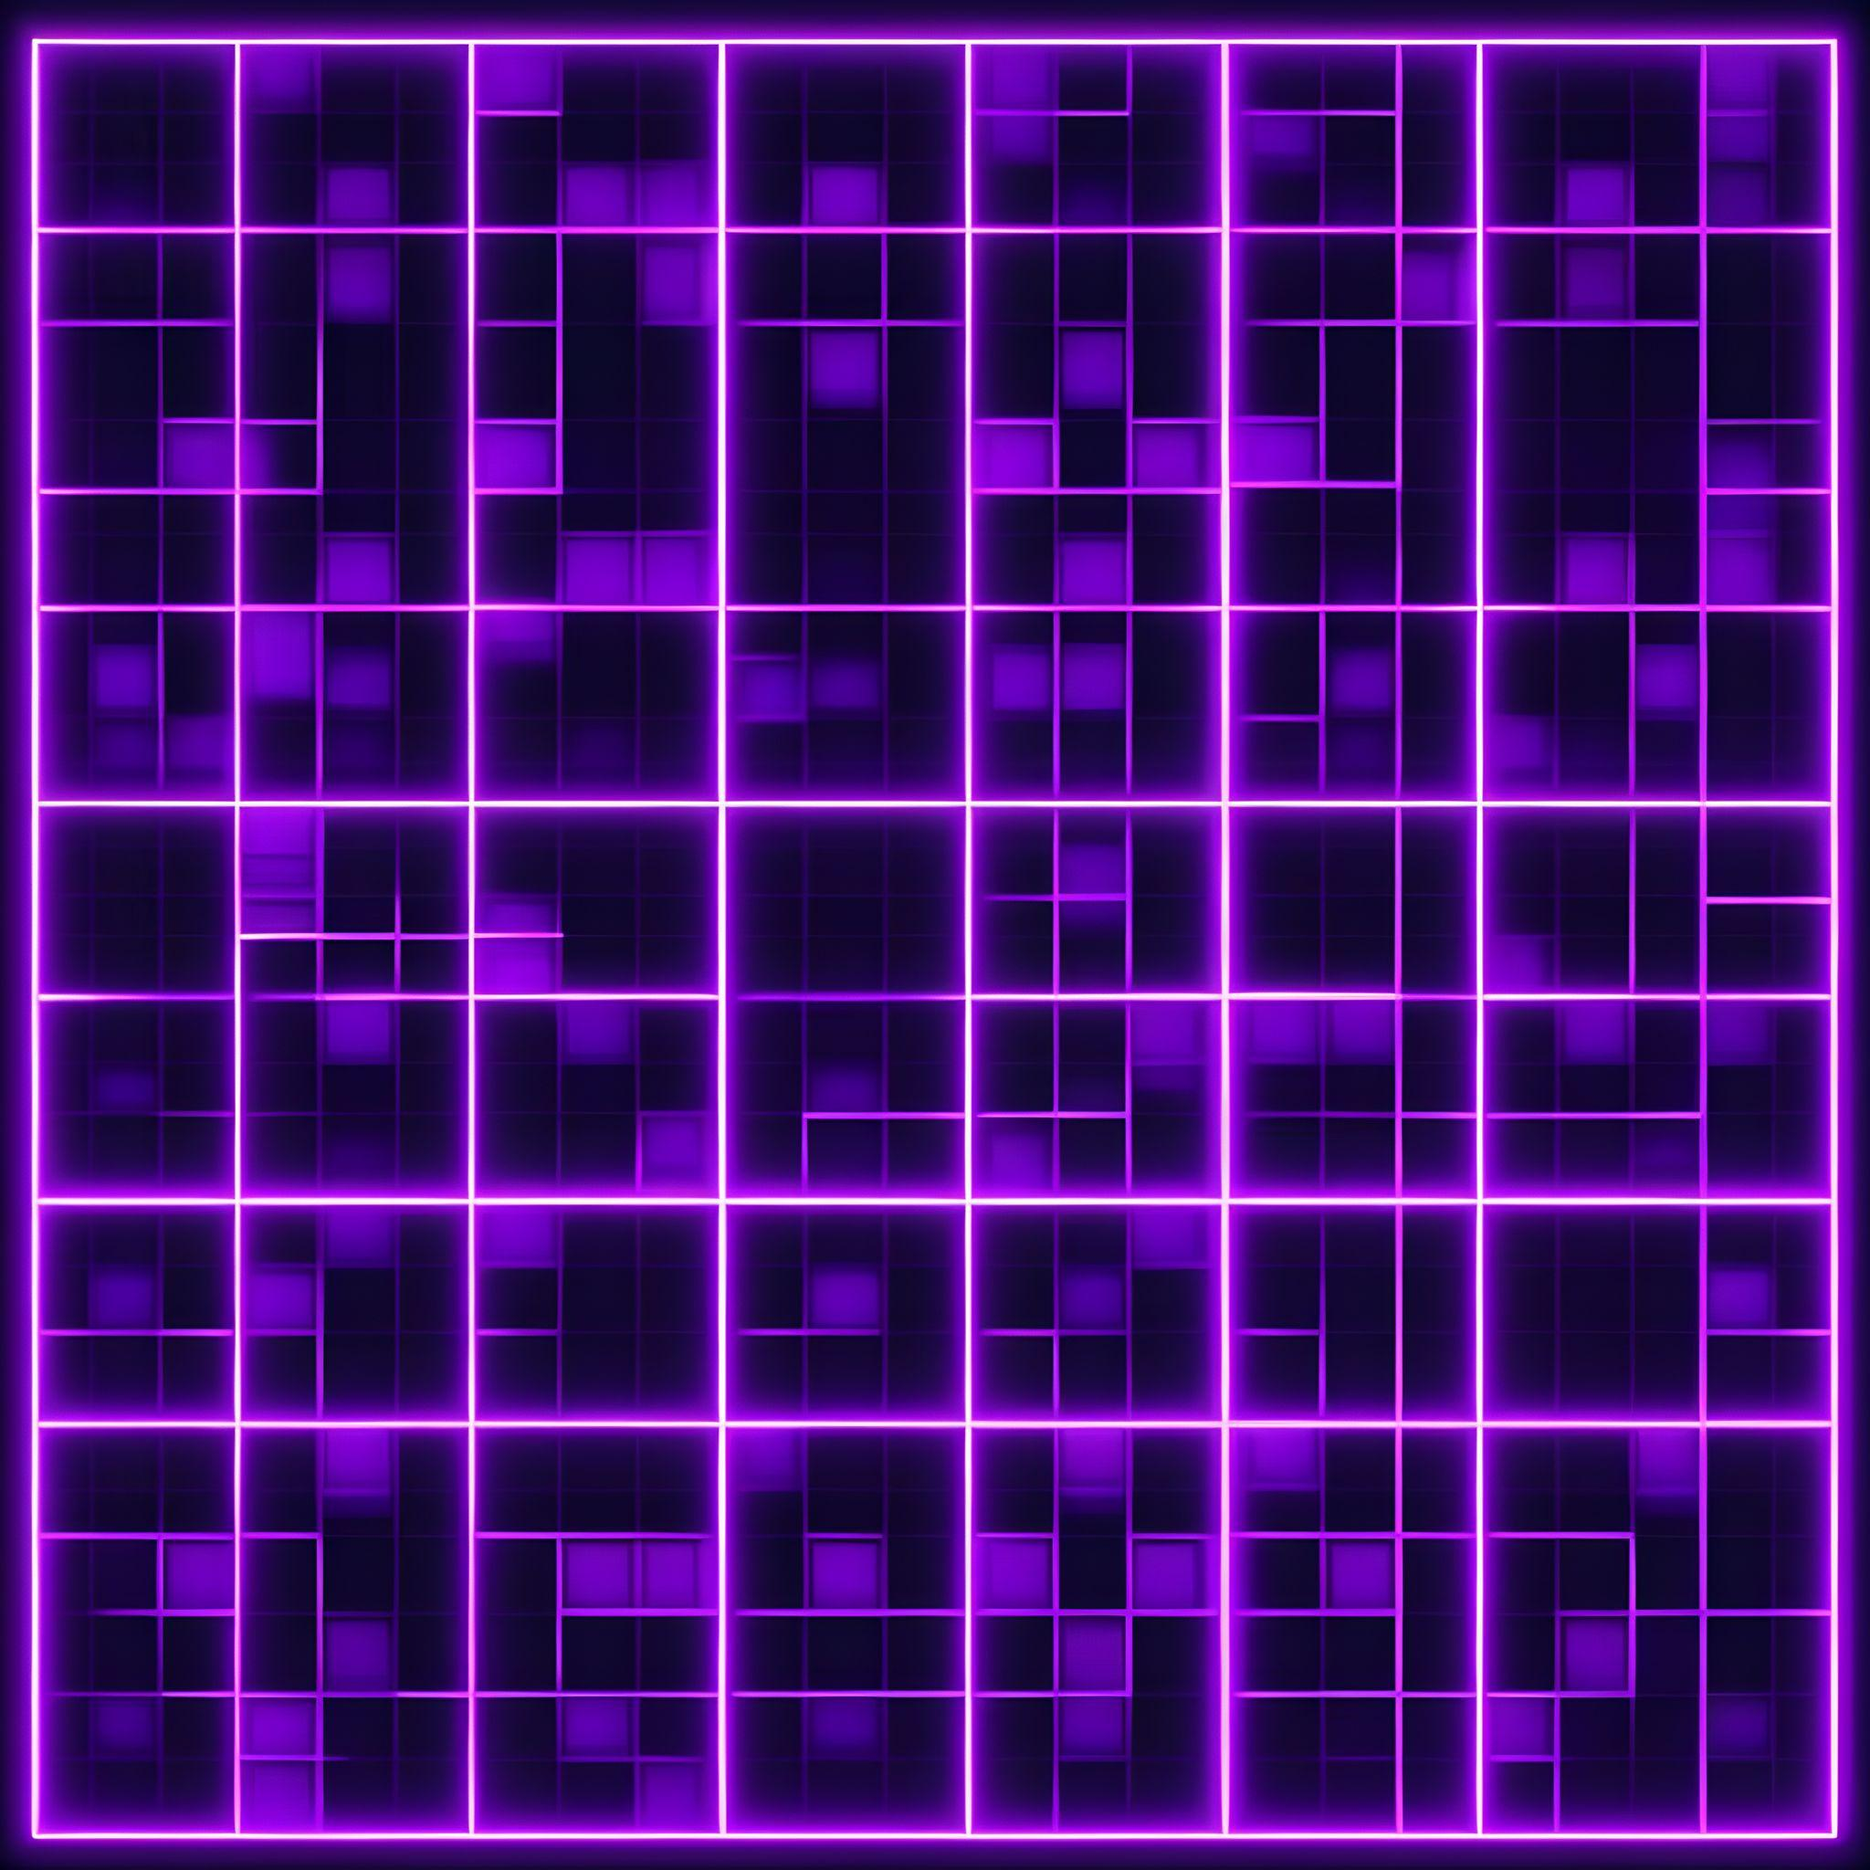
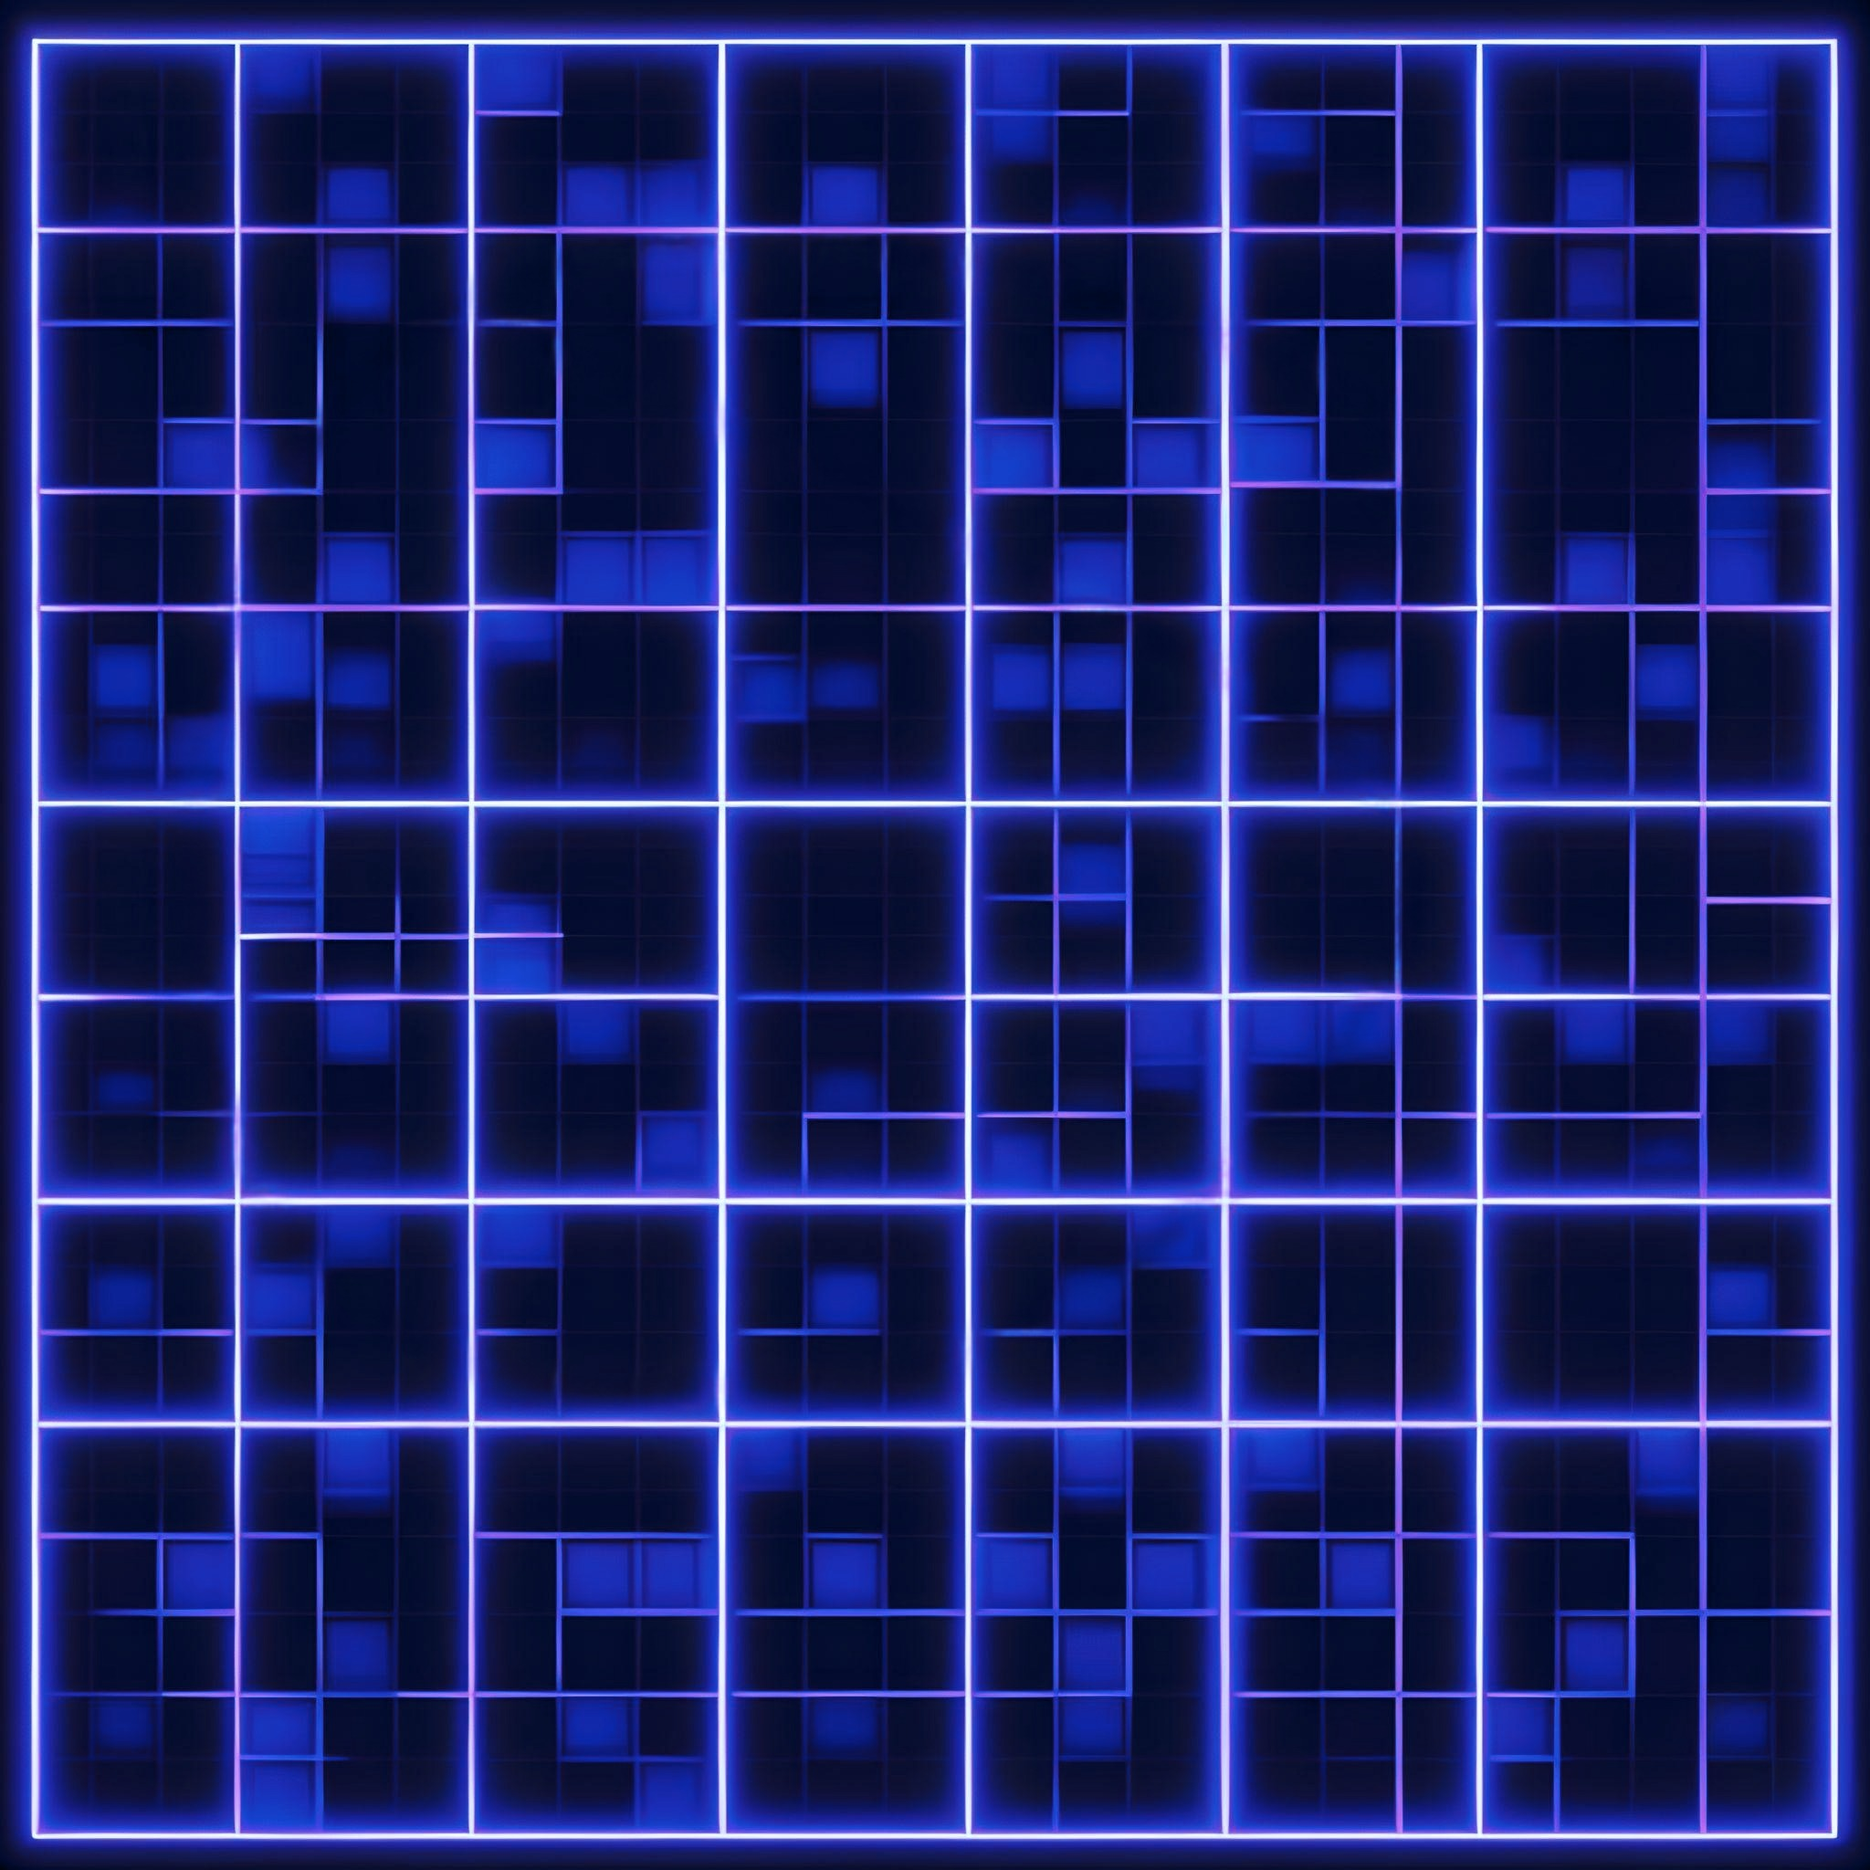
borrado de numero y cambios en ui

diff --git a/sudoku-app/public/js/config.js b/sudoku-app/public/js/config.js
@@ -1,5 +1,6 @@
 const menu = document.getElementById("configMenu");
 let coloresPrevios = {};
+const colorMarco  =document.getElementById('colorMarco');
 const colorTablero = document.getElementById('colorTablero');
 const colorCuadros = document.getElementById('colorCuadros');
 const colorCeldas = document.getElementById('colorCeldas');
@@ -7,6 +8,7 @@ const colorCeldasCompletadas = document.getElementById('colorCeldasCompletadas')
 const colorNumeros = document.getElementById('colorNumeros');
 const colorFyC = document.getElementById('colorFyC');
 const colorResalteNumeros = document.getElementById('colorResalteNumeros');
+
 
 colorCeldasCompletadas
 const atajo = getComputedStyle(document.documentElement);
@@ -19,6 +21,11 @@ function cargarConfiguarcion(){
     }
 
     // Asignar eventos de cambio a cada input de color
+    colorMarco.addEventListener('input', (event) => {
+        actualizarColorCSS('--colorMarco', event.target.value);
+    });
+
+
     colorTablero.addEventListener('input', (event) => {
         actualizarColorCSS('--colorTablero', event.target.value);
     });
@@ -52,6 +59,7 @@ function cargarConfiguarcion(){
 function abrirConfiguracion() {
     // Guardar los colores actuales antes de hacer cambios
     coloresPrevios = {
+        marco: atajo.getPropertyValue('--colorMarco'),
         tablero: atajo.getPropertyValue('--colorTablero'),
         cuadros: atajo.getPropertyValue('--colorCuadro'),
         celdas: atajo.getPropertyValue('--colorCelda'),
@@ -60,6 +68,7 @@ function abrirConfiguracion() {
         resaltado: atajo.getPropertyValue('--colorResalte'),
         numerosResaltados: atajo.getPropertyValue('--colorNumerosResaltados')
     };
+    colorMarco.value   = coloresPrevios.marco;
     colorTablero.value = coloresPrevios.tablero;
     colorCuadros.value = coloresPrevios.cuadros;
     colorCeldas.value = coloresPrevios.celdas;
@@ -77,12 +86,13 @@ function guardarMenuConfig (){
 
 function cancelarMenuConfig() {
 
+    estilos.setProperty('--colorMarco', coloresPrevios.marco);
+    estilos.setProperty('--colorTablero', coloresPrevios.tablero);
     estilos.setProperty('--colorCuadro', coloresPrevios.cuadros);
     estilos.setProperty('--colorCelda', coloresPrevios.celdas);
     estilos.setProperty('--colorNumeros', coloresPrevios.numeros);
     estilos.setProperty('--colorResalte', coloresPrevios.resaltado);
     estilos.setProperty('--colorNumerosResaltados', coloresPrevios.numerosResaltados);
-    estilos.setProperty('--colorTablero', coloresPrevios.tablero);
     estilos.setProperty('--colorCeldaCompleta', coloresPrevios.celdasCompletadas);
 
     menu.classList.add('ocultar');
@@ -90,6 +100,7 @@ function cancelarMenuConfig() {
 
 function guardarColoresEnLocalStorage() {
     const colores = {
+        marco: atajo.getPropertyValue('--colorMarco'),
         tablero: atajo.getPropertyValue('--colorTablero'),
         cuadros: atajo.getPropertyValue('--colorCuadro'),
         celdas: atajo.getPropertyValue('--colorCelda'),
@@ -104,6 +115,7 @@ function guardarColoresEnLocalStorage() {
 function cargarColoresDesdeLocalStorage() {
     const colores = JSON.parse(localStorage.getItem('colores'));
     if (colores) {
+        estilos.setProperty('--colorMarco', colores.marco)
         estilos.setProperty('--colorTablero', colores.tablero);
         estilos.setProperty('--colorCuadro', colores.cuadros);
         estilos.setProperty('--colorCelda', colores.celdas);
@@ -113,6 +125,7 @@ function cargarColoresDesdeLocalStorage() {
         estilos.setProperty('--colorNumerosResaltados', colores.numerosResaltados);
 
         // También actualiza los valores de los inputs de color
+        colorMarco.value   = coloresPrevios.marco;
         colorTablero.value = colores.tablero;
         colorCuadros.value = colores.cuadros;
         colorCeldas.value = colores.celdas;
@@ -124,13 +137,14 @@ function cargarColoresDesdeLocalStorage() {
 
 function reiniciarDeFabrica() {
     // Restablecer los colores a los valores predeterminados
-    estilos.setProperty('--colorTablero', '#1c1c1c');
-    estilos.setProperty('--colorCuadro', '#2e2e2e');
-    estilos.setProperty('--colorCelda', '#3a3a3a'); //
-    estilos.setProperty('--colorCeldaCompleta', '#4b3a5d'); 
-    estilos.setProperty('--colorNumeros', '#e8e8e8'); 
-    estilos.setProperty('--colorResalte', '#5c2a8d'); 
-    estilos.setProperty('--colorNumerosResaltados', '#9b7f9f');
+    estilos.setProperty('--colorMarco', '#171c61')
+    estilos.setProperty('--colorTablero', '#001f33'); // Azul muy oscuro
+    estilos.setProperty('--colorCuadro', '#003366'); // Azul profundo
+    estilos.setProperty('--colorCelda', '#004080'); // Azul oscuro suave
+    estilos.setProperty('--colorCeldaCompleta', '#00264d'); // Azul marino
+    estilos.setProperty('--colorNumeros', '#ffffff'); // Blanco brillante para los números
+    estilos.setProperty('--colorResalte', '#0066cc'); // Azul vibrante con un toque de neón
+    estilos.setProperty('--colorNumerosResaltados', '#80d4ff'); // Azul claro y suave para los números resaltados
     
     guardarColoresEnLocalStorage();
 }

diff --git a/sudoku-app/public/css/ventanaJuego.css b/sudoku-app/public/css/ventanaJuego.css
@@ -1,8 +1,11 @@
 
 #juegoTablero{
-    background-image: url("/Prueba/sudoku-app/assets/banner.png");
+  
     position: absolute;
-    background-color: rgb(60, 0, 128);
+    background-color: var(--colorMarco);
+    border:double #173ebd;
+    border-width: 2px;
+    box-shadow: 1px 1px 10px rgb(86, 104, 206);
     width: fit-content;
     height: fit-content;
     margin: 5px;
@@ -11,17 +14,18 @@
     top: 50%;
     left: 50%;
     transform: translate(-50%, -50%);
-    box-shadow: 0 0 8px rgba(106, 90, 205, 0.5); 
 }
 
 #contenedorInfo{
     display: flex;
     flex-direction: row;
-    background-color: rgba(4, 53, 4, 0);
+    background-color: rgba(255, 255, 255, 0);
     width: auto;
     height: fit-content;
     margin: 5px;
     padding: 5px;
+    color: white;
+    
 }
 .conenedorTiempo{
     border: thick inset #2e1b35;
@@ -29,37 +33,34 @@
     justify-content: center;
     font-size: 25px;
     align-items: center;
-    background-image: url("/Prueba/sudoku-app/assets/banner.png");
     margin: 5px;
     width: 100%;
     height: 4vh;
-    background-color: #3a387e;
-    filter: saturate(15%);
+    background-color: #477ecf62;
     color: white;
+    border: thick double #4e66ec;
+    box-shadow: 1px 1px 15px rgb(102, 121, 207);
 }
 .conenedorVidas{
     display: flex;
     justify-content: space-between;
     align-items: center;
-    background-image: url("/Prueba/sudoku-app/assets/banner.png");
     margin: 5px;
     width: 100%;
     height: 4vh;
-    background-color: #3a387e;
-    filter: saturate(15%);
+    background-color: #477ecf62;
     color: white;
-    border: thick inset #2e1b35;
+    border: thick double #4e66ec;
+    box-shadow: 1px 1px 15px rgb(102, 121, 207);
 }
 
 #bontonPista{
     position: relative;
-    background-image: url("/Prueba/sudoku-app/assets/banner.png");
     margin: 5px;
     top: 5px;
     width:  fit-content;
     height: 4vh;
-    background-color: #3a387e;
-    filter: saturate(15%);
+    background-color: #031553;
     color: white;
 }
 

diff --git a/sudoku-app/public/css/menus.css b/sudoku-app/public/css/menus.css
@@ -1,13 +1,15 @@
 #banner{
-    background-image: url("/Prueba/sudoku-app/assets/banner.png");
     position: absolute;
     display: flex;
     flex-direction: row;
-    background-color: lightblue;
+    background-color: rgb(12, 10, 71);
     width: 100%;
     margin-bottom: 10px;
+    border:outset #cec1d3;
+    border-width: 2px;
+    box-shadow: 0 4px 12px rgb(107, 108, 207);
     justify-content: space-between
-
+    
 
 }
 #menuDespegable{
@@ -22,7 +24,8 @@
     color: white;
     padding: 10px;
     font-size: 16px;
-    border: thick inset #2e1b35;
+    border: thick inset #0a1b3f;
+    box-shadow: 0 4px 12px rgb(107, 108, 207);
     cursor: pointer;
     height: 35px;
     display: flex;
@@ -40,19 +43,20 @@
     min-width: 160px;
     box-shadow: 0 8px 16px 0 rgba(0,0,0,0.2);
     z-index: 1;
+    border: thick inset #121344;
 }
 
 .menuDesplejado button  {
-    background-image: url("/Prueba/sudoku-app/assets/banner.png");
     color: #ffffff;
     padding: 12px 16px;
-    background-color: #3a387e;
+    background-color: #031553;
+    border: 2px inset #121344;
     padding: 12px 16px;
     text-decoration: none;
-    display: block;
-    border: none; 
+    display: block; 
     width: 100%; 
     text-align: left; 
+    
 }
 
 .menuDesplejado button:hover {
@@ -83,7 +87,8 @@
     color: white;
     padding: 10px;
     font-size: 16px;
-    border: thick inset #2e1b35;
+    border: thick inset #0a1b3f;
+    box-shadow: 0 4px 12px rgb(107, 108, 207);
     cursor: pointer;
     height: 35px;
     display: flex;
@@ -94,5 +99,5 @@
 
 .botonInfo:active {
     transform: translateY(2px);
-    border: thick inset #c876e4;
+    border: thick inset #3759a7;
 }

diff --git a/sudoku-app/public/js/tableroUI.js b/sudoku-app/public/js/tableroUI.js
@@ -87,16 +87,23 @@ function crearTableroUI(){
             celdaActual = null;
         } else {
             //caso fallo
+            celdaActual.addEventListener("click",borrarNumero)
             celdaActual.classList.add('temblar')
             celdaActual.textContent = numero;
             celdaActual.addEventListener('animationend', () => {
                 celdaActual.classList.remove('temblar');   
-            }, { once: true });
+            }, { once: true });  
             perderVida();
 
 
         }
     }
+
+    function borrarNumero(){
+        this.textContent = '';
+        this.removeEventListener('click', borrarNumero);
+    }
+
 
     function hechaPorPista(celda){
         celdaActual = celda;
@@ -126,7 +133,9 @@ function crearTableroUI(){
         });
         remarcarFilas(filaEnTablero, listaDeCuadros, posHijo);
         remarcarColumnas(columnaTablero, listaDeCuadros, posHijo);
-        remarcarMismoNumero(listaDeCuadros,celdaSeleccionada.textContent);
+        if(celdaSeleccionada.classList.contains("celdaCompleta")){
+            remarcarMismoNumero(listaDeCuadros,celdaSeleccionada.textContent);
+        }       
     }
 
 
@@ -160,7 +169,7 @@ function remarcarMismoNumero(listaDeCuadros,numeroHijo){
     for (let cuadro of listaDeCuadros) {
         for (let j = 0; j < cuadro.children.length; j++) {
             let hijo = cuadro.children[j];
-            if (hijo.textContent == numeroHijo && hijo.textContent != "") {
+            if (hijo.textContent == numeroHijo && hijo.classList.contains('celdaCompleta')) {
                 hijo.classList.add('celda-mismoNumero');
             }
         }

diff --git a/sudoku-app/public/css/menusFinalDelJuego.css b/sudoku-app/public/css/menusFinalDelJuego.css
@@ -9,7 +9,7 @@
     padding: 20px;
     background-color: rgb(13, 3, 39);
     border: 2px solid black;
-    box-shadow: 0 0 10px rgba(0, 0, 0, 0.1);
+    box-shadow: 1px 1px 15px rgba(120, 136, 206, 0.747);
     z-index: 1000;
     text-align: center;
 }
@@ -28,14 +28,14 @@
 .botonFinal{
     color: #ffffff;
     padding: 12px 16px;
-    background-color: #3a387e;
+    background-color: #141258;
     padding: 12px 16px;
     text-decoration: none;
     display: block;
     border: none; 
     width: 100%; 
     text-align: left; 
-    border: thick inset #08010a83;
+    border: thick inset #0a0e3183;
 }
 
 .newGameMenu{
@@ -46,10 +46,10 @@
     top: 50%;
     left: 50%;
     transform: translate(-50%, -50%);
-    background-color: #05010f;
-    border: 4px solid rgb(161, 11, 203);
+    background-color: #020313;
+    border: 4px solid rgb(15, 13, 172);
     border-radius: 8px;
-    box-shadow: 0 4px 12px rgb(198, 113, 206);
+    box-shadow: 0 4px 12px rgb(117, 116, 180);
     z-index: 1000;
     padding: 20px;
     gap: 15px;

diff --git a/sudoku-app/public/css/root.css b/sudoku-app/public/css/root.css
@@ -1,9 +1,10 @@
 :root {
-    --colorTablero: #1c1c1c; /* Obsidiana muy oscura */
-    --colorCuadro: #2e2e2e; /* Gris oscuro con matices morados */
-    --colorCelda: #3a3a3a; /* Gris más claro con matices morados */
-    --colorCeldaCompleta: #4b3a5d; /* Morado oscuro */
-    --colorNumeros: #e8e8e8; /* Gris muy claro para los números */
-    --colorResalte: #5c2a8d; /* Morado oscuro con matices azules */
-    --colorNumerosResaltados: #9b7f9f; /* Morado suave */
+    --colorMarco:#171c61 ;
+    --colorTablero: #001f33; /* Azul muy oscuro */
+    --colorCuadro: #003366; /* Azul profundo */
+    --colorCelda: #004080; /* Azul oscuro suave */
+    --colorCeldaCompleta: #00264d; /* Azul marino */
+    --colorNumeros: #ffffff; /* Blanco brillante para los números */
+    --colorResalte: #0066cc; /* Azul vibrante con un toque de neón */
+    --colorNumerosResaltados: #80d4ff; /* Azul claro y suave para los números resaltados */
 }

diff --git a/index.html b/index.html
@@ -22,8 +22,7 @@
             background-repeat: repeat;
             background-size: 35%;
             background-position: center; 
-  
-                             
+              
         }
    
     </style>
@@ -52,6 +51,10 @@
     </div>
 
     <div id="configMenu" class="configMenu ocultar "> 
+        <div class="config">
+            <div class="textConfig">Marco</div>
+            <input type="color" class="configColor" id="colorMarco">
+        </div>
         <div class="config">
             <div class="textConfig">Tablero</div>
             <input type="color" class="configColor" id="colorTablero">
@@ -148,7 +151,7 @@
 
 
 <script>
-    cargarColoresDesdeLocalStorage();
+   // cargarColoresDesdeLocalStorage();
 
     let tableroComportamiento;
     let minutos;
